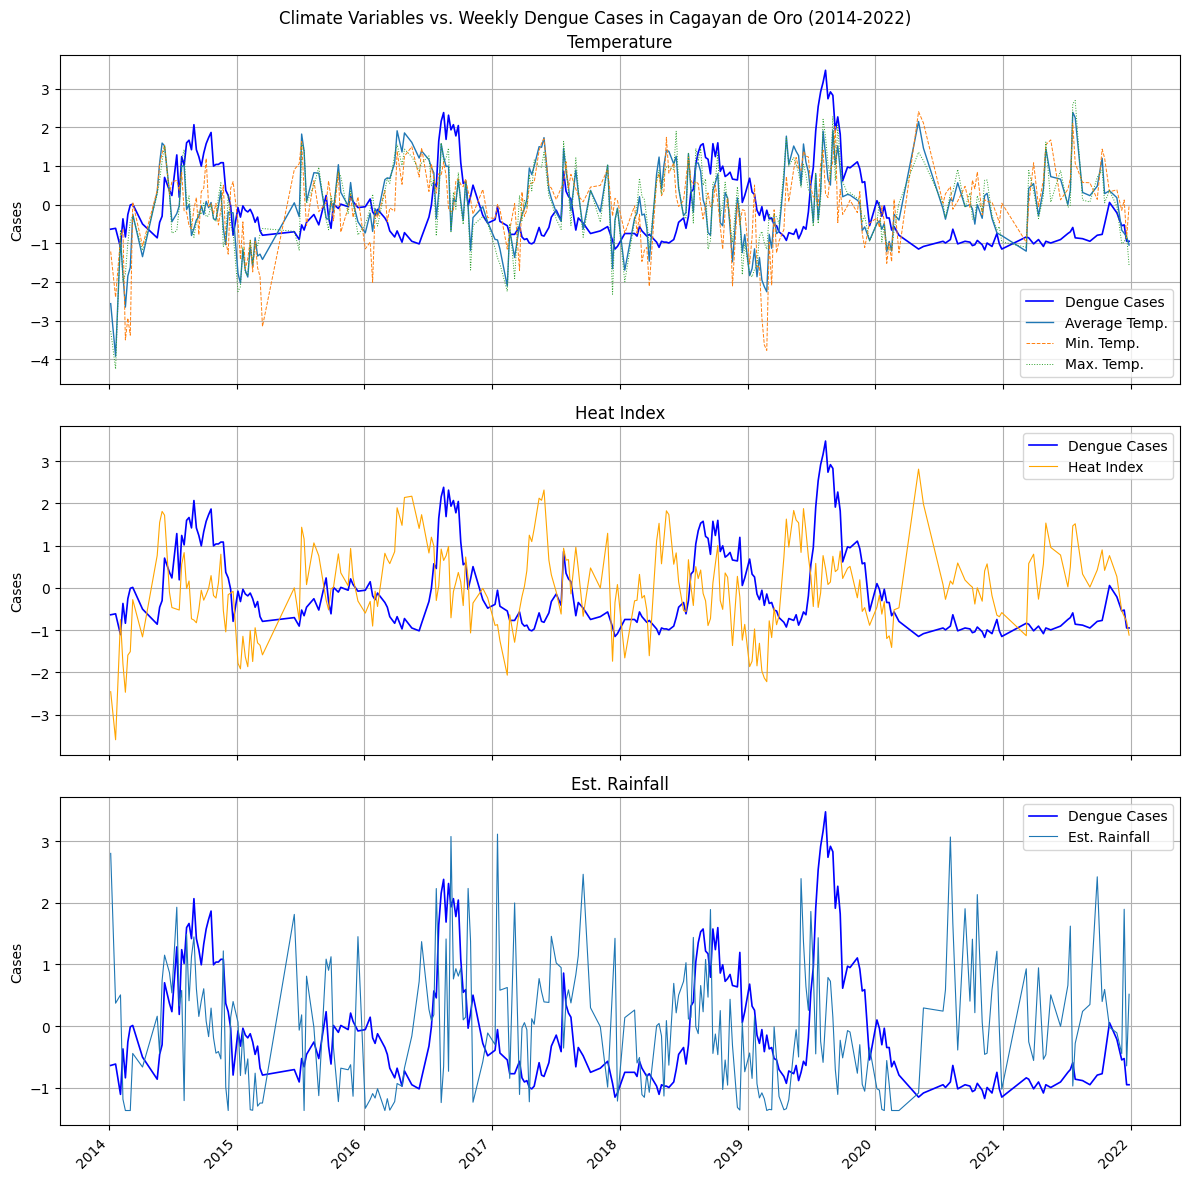
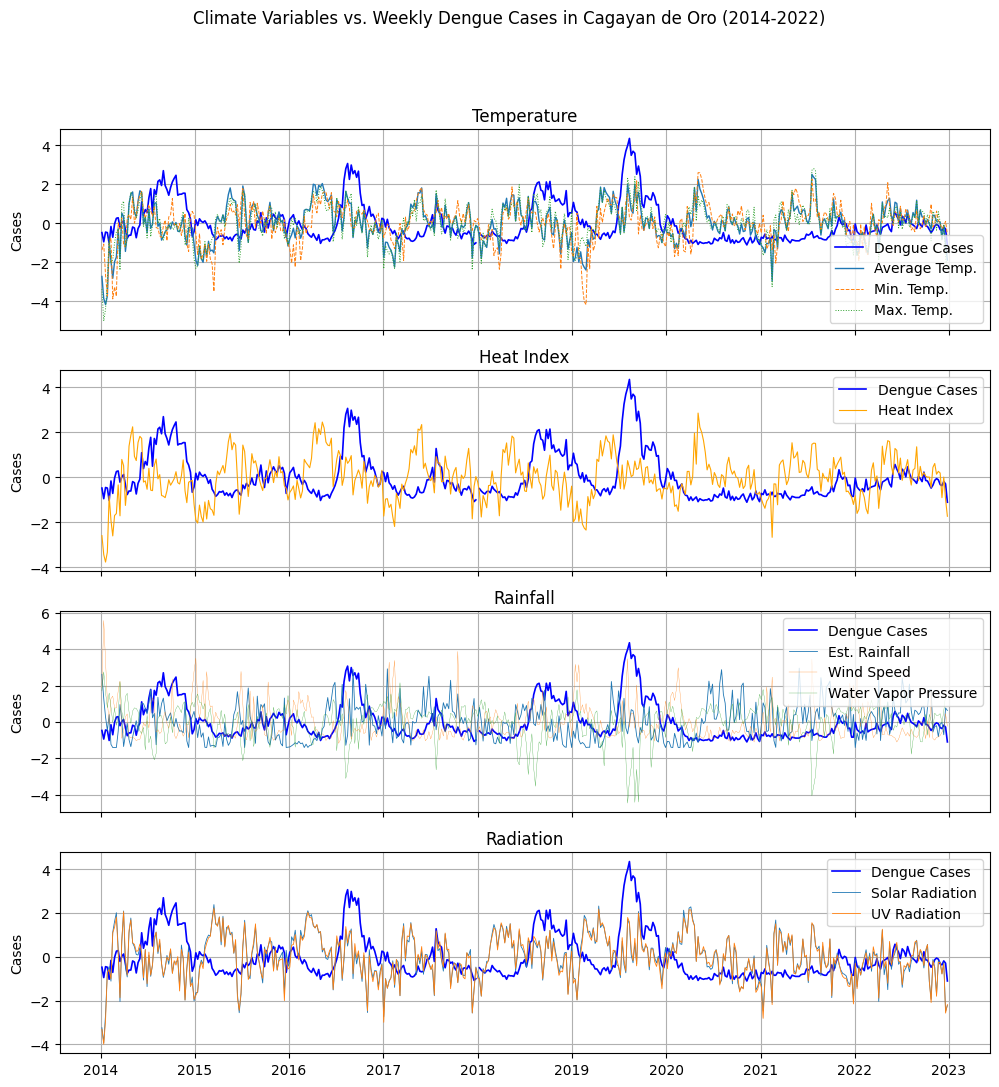
Added Climate hypothesis

Changed region(s): [[0.0, 0.0607, 1.0, 1.0], [0.1862, 0.0, 0.8068, 0.0607]]

diff --git a/index.html b/index.html
@@ -206,20 +206,25 @@
 								Climate atmospheric variables, specifically heat index and estimated rainfall, were analyzed to assess their influence on the climate-sensitive disease, dengue. The effects of these variables are depicted in the graphs, with all values normalized to facilitate clearer visualization and comparison alongside dengue case trends.
 							</p>
 							<p style="text-align:justify; text-indent:1.2em;margin-bottom:0.9rem;">
-								The recorded temperature and heat index data reveal clear seasonal fluctuations typical of the Philippines' climate. A noticeable pattern emerges from 2014 to 2020, where spikes in temperature are consistently followed by corresponding increases in dengue cases. This suggests a potential lagged relationship between rising temperatures and dengue incidence. However, after 2020, this pattern appears to diminish as dengue cases level off and no longer show the same responsiveness to temperature changes. This disruption likely coincides with the onset of the COVID-19 pandemic, which may have influenced reporting, human behavior, or other factors affecting dengue transmission, thereby interrupting the previously observed seasonal trend.
+								The recorded temperature and heat index data reveal clear seasonal fluctuations typical of the Philippines' climate. A noticeable pattern emerges from 2014 to 2020, where <b>spikes in temperature are consistently followed by corresponding increases in dengue cases</b>. This suggests <b>a potential lagged relationship between rising temperatures and dengue incidence</b>. However, after 2020, this pattern appears to diminish as dengue cases level off and no longer show the same responsiveness to temperature changes. This disruption likely coincides with the onset of the COVID-19 pandemic, which may have influenced reporting, human behavior, or other factors affecting dengue transmission, thereby interrupting the previously observed seasonal trend.
 							</p>
 							<p style="text-align:justify; text-indent:1.2em;margin-bottom:0.9rem;">
-								A similar seasonal fluctuation can be observed with estimated rainfall, aligning with the Philippines' characteristic wet and dry seasons. Notably, the intensity of rainfall events appears to increase over the years, with more pronounced spikes in recent periods. Like temperature, increases in rainfall often precede or coincide with rises in dengue cases. Additionally, the disruption in dengue case patterns during the COVID-19 pandemic is also evident in the rainfall graph.
+								A similar seasonal fluctuation can be observed with estimated rainfall, aligning with the Philippines' characteristic wet and dry seasons. Notably, the intensity of rainfall events appears to increase over the years, with more pronounced spikes in recent periods. Like temperature, <b>increases in rainfall often precede or coincide with rises in dengue cases</b>. Additionally, the disruption in dengue case patterns during the COVID-19 pandemic is also evident in the rainfall graph.
 							</p>
 
 							<img src="images/climate_fig2.png" alt="" style="max-width:100%; height:auto; display:block; margin:0 auto 1rem; border:1px solid #eee; padding:4px;" />
 							<p style="text-align:justify; text-indent:1.2em;margin-bottom:0.9rem;">
-								To gain a deeper insight into the impact of these variables, we examined the correlation between each climate variable and dengue cases. Using Pearson correlation to assess pairwise relationships on data from 2014 to 2022, none of the climate variables exhibited a strong linear correlation with dengue cases. Even if we account for lagging with the incidence, it only resulted in approximately moderate linear correlations between variables.
+								The study earlier identified that a <b>25-week lag</b> yielded the strongest associations with dengue incidence for Metro Manila (Carvajal et. al, 2018). However upon doing prelimenary analysis by trial and error, a <b>10-week lag</b> yielded the best association for Cagayan de Oro. 
 							</p>
 
-							<img src="images/climate_fig3.png" alt="" style="max-width:100%; height:auto; display:block; margin:0 auto 1rem; border:1px solid #eee; padding:4px;" />
+							<img src="images/climate_fig4.png" alt="" style="max-width:100%; height:auto; display:block; margin:0 auto 1rem; border:1px solid #eee; padding:4px;" />
 							<p style="text-align:justify; text-indent:1.2em;margin-bottom:0.9rem;">
-								Even if we do limit the data range from 2014 to 2020, pre-COVID19 pandemic, results were better but still resulted with showing approximately moderate linear correlation between variables.
+								In the case of leptospirosis incidence, no apparent trends are visible, compared to dengue incidence.
+							</p>
+
+							<img src="images/climate_fig7.png" alt="" style="max-width:100%; height:auto; display:block; margin:0 auto 1rem; border:1px solid #eee; padding:4px;" />
+							<p style="text-align:justify; text-indent:1.2em;margin-bottom:0.9rem;">
+								Similarly, no apparent trends are visible yet with typhoid incidence, compared to dengue incidence.	
 							</p>
                         </template>
 
@@ -237,7 +242,7 @@
                         </template>
 
                         <template id="tpl-socio">
-							<img src="images/socio_fig1.png" alt="" style="max-width:100%; height:auto; display:block; margin:0 auto 1rem; border:1px solid #eee; padding:4px;" />
+							<img src="images/hypo_socio_fig1.png" alt="" style="max-width:100%; height:auto; display:block; margin:0 auto 1rem; border:1px solid #eee; padding:4px;" />
                             <p style="text-align:justify; text-indent:1.2em;margin-bottom:0.9rem;">
 								In plot 1, We see a moderate negative correlation between Dengue Rate and Relative Wealth. This is a significant finding: in Cagayan de Oro, poorer barangays do tend to have higher rates of dengue. We also see a positive correlation with Population Density and a negative correlation with Health Facilities.
 							</p>
@@ -336,6 +341,120 @@
 
 					<!-- hidden templates for hypothesis details -->
 					<div id="hypo-templates" style="display:none;">
+						<template id="tpl-hypo-climate">
+							<h4 style="text-align:left;">Research Question and Hypotheses</h4>
+							<p style="text-align:justify; text-indent:1.2em; margin-bottom:0.9rem;">
+								For this analysis, we sought to answer “How do climate variables (e.g., temperature, rainfall, humidity) influence the incidence of climate-sensitive diseases such as dengue, leptospirosis, and typhoid in selected Philippine cities?”
+							</p>
+							<ul>
+								<p style="text-align:justify; text-indent:1.2em; margin-bottom:0.9rem;">
+									We tested the following hypotheses for different diseases in Cagayan de Oro:
+								</p>
+								<li>
+									<p style="text-align:justify; text-indent:1.2em; margin-bottom:0.9rem;">
+										H<sub>0</sub>: Climate variables have no significant effect on the incidence of climate-sensitive diseases
+									</p>
+								</li>
+								<li>
+									<p style="text-align:justify; text-indent:1.2em; margin-bottom:0.9rem;">
+										H<sub>1</sub>: Climate variables significantly influence the incidence of climate-sensitive diseases in Philippine cities
+									</p>
+								</li>
+							</ul>
+							
+							<h4 style="text-align:left;">Methodology</h4>
+							<p style="text-align:justify; text-indent:1.2em; margin-bottom:0.9rem;">
+								To test these hypotheses, we draw on the CChain Open Data database to construct a cross-sectional dataset covering 77 barangays in Cagayan de Oro City. Our analysis includes (1) running separate linear regressions for each variable and (2) estimating a multiple linear regression (OLS) model incorporating all climate variables.
+							</p>
+
+							<h4 style="text-align:left;">Visual Analysis Findings</h4>
+							<p style="text-align:justify; text-indent:1.2em; margin-bottom:0.9rem;">
+								With the preliminary EDA earlier, we have observed trends on dengue incidence vs. climate variables. However, no apparent trends are visible for the other diseases. As such, we will be implementing a <b>10-week lag</b> to dengue incidence and see if there is any effect to other diseases as well.
+							</p>
+
+							<h4 style="text-align:left;">Statistical Hypothesis Test Results</h4>
+							<img src="images/climate_fig2.png" style="max-width:100%; height:auto; display:block; margin:0 auto 1rem; border:1px solid #eee; padding:4px;" />
+							<p style="text-align:justify; text-indent:1.2em; margin-bottom:0.9rem;">
+								In line with previous research, introducing time lagging to our model did improve the most of the correlation values between climate variables and dengue incidence. However, <b>temperature-related variables and rainfall estimates showed weak positive correlation</b> while <b>water vapor pressure showed weak negative correlation</b>. This suggests that <b>these climate variables alone are not the cause of dengue incidence</b>. Furthermore, water vapor pressure showed weaker correlation when introduced with time lagging. This suggests that <b>no time lagging is required for water vapor pressure</b>.
+							</p>
+
+							<img src="images/climate_fig3.png" style="max-width:100%; height:auto; display:block; margin:0 auto 1rem; border:1px solid #eee; padding:4px;" />
+							<p style="text-align:justify; text-indent:1.2em; margin-bottom:0.9rem;">
+								Even if we take into account the pandemic, it did improve the said variables, but still only showed <b>weak correlation with dengue incidence</b>.
+							</p>
+
+							<p style="text-align:justify; text-indent:1.2em; margin-bottom:0.9rem;">
+								Since temperature, heat index, rainfall estimates, and water vapor pressure showed statistically significant correlation, we will be using these variables for OLS. However, since time lagging is ineffective for water vapor pressure, we will not be using OLS on water vapor pressure alongside the other variables. For comparison, we will be showcasing results between four types of models: 2014-2022 model, 2014-2020 model, lagged 2014-2022 model, and lagged 2014-2020 model:
+							</p>
+
+							<table>
+								<tr>
+									<th></th>
+									<th>2014-2022</th>
+									<th>2014-2020</th>
+									<th>L 2014-2022</th>
+									<th>L 2014-2020</th>
+								</tr>
+								<tr>
+									<td>R-squared</td>
+									<td>0.179</td>
+									<td>0.247</td>
+									<td>0.164</td>
+									<td>0.240</td>
+								</tr>
+								<tr>
+									<td>Adj. R-squared</td>
+									<td>0.174</td>
+									<td>0.241</td>
+									<td>0.159</td>
+									<td>0.233</td>
+								</tr>
+								<tr>
+									<td>F-statistic</td>
+									<td>33.74</td>
+									<td>39.44</td>
+									<td>29.78</td>
+									<td>36.83</td>
+								</tr>
+								<tr>
+									<td>P-value</td>
+									<td>9.68e-20</td>
+									<td>4.65e-22</td>
+									<td>1.36e-17</td>
+									<td>1.05e-20</td>
+								</tr>
+							</table>
+
+							<p style="text-align:justify; text-indent:1.2em; margin-bottom:0.9rem;">
+								As listed above, all models are <b>highly significant</b>. Which means that at least one or more of the variables are significant, with <b>average temperatures affecting dengue incidence greatly</b>. However, the amount of variation varies between models. With a p-value of 0.05, <b>all variables are significant in all models except for rainfall with 2014-2022 model</b>. Furthermore, this model only accounts for <b>about 20% of the variation of dengue incidence</b>.
+							</p>
+
+							<img src="images/climate_fig5.png" style="max-width:100%; height:auto; display:block; margin:0 auto 1rem; border:1px solid #eee; padding:4px;" />
+							<p style="text-align:justify; text-indent:1.2em; margin-bottom:0.9rem;">
+								For leptospirosis, <b>climate variables did not present a significant level of correlation with leptospirosis incidence</b>.
+							</p>
+
+							<img src="images/climate_fig6.png" style="max-width:100%; height:auto; display:block; margin:0 auto 1rem; border:1px solid #eee; padding:4px;" />
+							<p style="text-align:justify; text-indent:1.2em; margin-bottom:0.9rem;">
+								The same happens even if we limit the data before the pandemic. Since no correlation was found, there is no need to run OLS.
+							</p>
+
+							<img src="images/climate_fig8.png" style="max-width:100%; height:auto; display:block; margin:0 auto 1rem; border:1px solid #eee; padding:4px;" />
+							<p style="text-align:justify; text-indent:1.2em; margin-bottom:0.9rem;">
+								Similarly, <b>climate variables did not present a significant level of correlation with typhoid incidence</b>.
+							</p>
+
+							<img src="images/climate_fig9.png" style="max-width:100%; height:auto; display:block; margin:0 auto 1rem; border:1px solid #eee; padding:4px;" />
+							<p style="text-align:justify; text-indent:1.2em; margin-bottom:0.9rem;">
+								The same happens even if we limit the data before the pandemic. Since no correlation was found, there is no need to run OLS.
+							</p>
+
+							<h4 style="text-align:left;">Conclusion & Discussion</h4>
+							<p style="text-align:justify; text-indent:1.2em; margin-bottom:0.9rem;">
+								In conclusion and based on statistical evidence, we <b>reject the null hypothesis for dengue incidence</b> but <b>accept the null hypothesis for leptospirosis and typhoid incidence</b>. This means that only dengue incidence is affected by climate variables. However, this only accounts for <b>20% of the variance</b>. This suggests that there is more at play here, other than climate variables.
+							</p>
+						</template>
+						
 						<template id="tpl-hypo-envi">
 							<h4 style="text-align:left;">Research Question and Hypotheses</h4>
 							<p style="text-align:justify; text-indent:1.2em; margin-bottom:0.9rem;">
@@ -531,110 +650,6 @@
 							</p>
 							<p style="text-align:justify; text-indent:1.2em; margin-bottom:0.9rem;">
 								Thus, this exploratory analysis for this specific research question suggests that landslide-prone terrain may be a useful environmental indicator for identifying populations at higher risk for dengue. Future research by the group or other groups may incorporate multi-year disease incidence average, disease incidence of different barangays of different cities for a barangay-level analysis, or include more cities in the correlation analysis that was done for this research question.
-							</p>
-						</template>
-
-						<template id="tpl-hypo-socio">
-							<h4 style="text-align:left;">Research Question and Hypotheses</h4>
-							<p style="text-align:justify; text-indent:1.2em; margin-bottom:0.9rem;">
-								This analysis sought to answer the following research question: "How do socioeconomic factors (e.g., population density, relative wealth, and access to healthcare facilities) affect vulnerability to climate-sensitive diseases?"
-							</p>
-							<ul>
-								<p style="text-align:justify; text-indent:1.2em; margin-bottom:0.9rem;">
-									We tested the following hypotheses for Dengue Fever in Cagayan de Oro:
-								</p>
-								<li>
-									<p style="text-align:justify; text-indent:1.2em; margin-bottom:0.9rem;">
-										H<sub>0</sub>: Socioeconomic indicators (wealth, population density, health access) do not affect disease vulnerability.
-									</p>
-								</li>
-								<li>
-									<p style="text-align:justify; text-indent:1.2em; margin-bottom:0.9rem;">
-										H<sub>1</sub>: Socioeconomic factors significantly affect disease incidence, with poorer and more densely populated areas experiencing a higher burden.
-									</p>
-								</li>
-							</ul>
-							
-							<h4 style="text-align:left;">Methodology</h4>
-							<ul>
-								<p style="text-align:justify; text-indent:1.2em; margin-bottom:0.9rem;">
-									To test these hypotheses, we created a cross-sectional dataset of 77 barangays in Cagayan de Oro City. We aggregated data from 2014 to 2022 to create an average profile for each barangay, including:
-								</p>
-								<li>
-									<p style="text-align:justify; text-indent:1.2em; margin-bottom:0.9rem;">
-										<b>Dependent Variable:</b> Average Annual Dengue Rate per 100,000 people
-									</p>
-								</li>
-								<li>
-									<p style="text-align:justify; text-indent:1.2em; margin-bottom:0.9rem;">
-										<b>Independent variables:</b> Mean Relative Wealth Index (RWI), mean Population Density, and mean count of DOH-registered Health Facilities.
-									</p>
-								</li>
-							</ul>
-							<p style="text-align:justify; text-indent:1.2em; margin-bottom:0.9rem;">
-								The analysis involved two stages: (1) A visual analysis using scatter plots and box plots to identify trends, and (2) a formal hypothesis test using a multiple linear regression (OLS) model.
-							</p>
-
-							<h4 style="text-align:left;">Visual Analysis Findings</h4>
-							<img src="images/hypo_socio_fig1.png" style="max-width:100%; height:auto; display:block; margin:0 auto 1rem; border:1px solid #eee; padding:4px;" />
-							<ul>
-								<p style="text-align:justify; text-indent:1.2em; margin-bottom:0.9rem;">
-									The visual dashboard provided initial evidence to support the alternative hypothesis (H<sub>1</sub>).
-								</p>
-								<li>
-									<p style="text-align:justify; text-indent:1.2em; margin-bottom:0.9rem;">
-										<b>Plot 1 (Heatmap):</b> A correlation heatmap revealed a <b>moderate negative correlation</b> between Relative Wealth and Dengue Rate, suggesting poorer barangays had higher rates. It also showed a <b>weak positive correlation</b> with Population Density.
-									</p>
-								</li>
-								<li>
-									<p style="text-align:justify; text-indent:1.2em; margin-bottom:0.9rem;">
-										<b>Plot 2 & 3 (Scatter Plots):</b> These plots confirmed the trends. The scatter plot for wealth (Plot 2) showed a clear downward-sloping trend line, indicating lower rates in wealthier barangays. The plot for density (Plot 3) showed an upward-sloping trend, indicating higher rates in more crowded areas. Each dot on these plots represented a single barangay.
-									</p>
-								</li>
-								<li>
-									<p style="text-align:justify; text-indent:1.2em; margin-bottom:0.9rem;">
-										<b>Plot 4 (Box Plot):</b> The analysis of healthcare access revealed a non-linear pattern. Barangays with <b>zero</b> health facilities had a visibly higher median dengue rate than those with one or more, suggesting that a complete lack of access is a significant vulnerability.
-									</p>
-								</li>
-							</ul>
-
-							<h4 style="text-align:left;">Statistical Hypothesis Test Results</h4>
-							<ul>
-								<p style="text-align:justify; text-indent:1.2em; margin-bottom:0.9rem;">
-									A multiple linear regression was performed to determine if these visual trends were statistically significant. The overall model was significant (F-statistic = 6.546, p = 0.000555) and explained 21.2% of the variance in dengue rates (R-squared = 0.212).
-								</p>
-								<p style="text-align:justify; text-indent:1.2em; margin-bottom:0.9rem;">
-									The individual factor results are as follows:
-								</p>
-								<li>
-									<p style="text-align:justify; text-indent:1.2em; margin-bottom:0.9rem;">
-										<b>Relative Wealth (RWI):</b> This was a <b>highly significant</b> predictor (p = 0.0003). The negative coefficient confirms that as a barangay's average wealth increases, its dengue rate significantly <i>decreases</i>. This finding <b>strongly supports H<sub>1</sub></b>.
-									</p>
-								</li>
-								<li>
-									<p style="text-align:justify; text-indent:1.2em; margin-bottom:0.9rem;">
-										<b>Population Density:</b> This was also a <b>highly significant</b> predictor (p = 0.0001). The positive coefficient confirms that as a barangay's population density increases, its dengue rate significantly <i>increases</i>. This finding <b>also strongly supports H<sub>1</sub></b>.
-									</p>
-								</li>
-								<li>
-									<p style="text-align:justify; text-indent:1.2em; margin-bottom:0.9rem;">
-										<b>Healthcare Access:</b> This factor's p-value (p = 0.063) was just above the 0.05 threshold for significance. This indicates that once the powerful effects of wealth and density are accounted for, the <i>number</i> of health facilities was not a statistically significant predictor in this specific model.
-									</p>
-								</li>
-							</ul>
-
-							<h4 style="text-align:left;">Conclusion & Discussion</h4>
-							<p style="text-align:justify; text-indent:1.2em; margin-bottom:0.9rem;">
-								<b>Based on the statistical evidence, we reject the null hypothesis (H0).</b>
-							</p>
-							<p style="text-align:justify; text-indent:1.2em; margin-bottom:0.9rem;">
-								The analysis provides strong quantitative support for the alternative hypothesis (H1). The burden of dengue in Cagayan de Oro is not random but is significantly linked to socioeconomic conditions.
-							</p>
-							<p style="text-align:justify; text-indent:1.2em; margin-bottom:0.9rem;">
-								We found that <b>relative wealth</b> and <b>population density</b> are two of the most significant drivers of dengue vulnerability. Barangays that are poorer and more crowded face a statistically higher risk. 
-							</p>
-							<p style="text-align:justify; text-indent:1.2em; margin-bottom:0.9rem;">
-								While the visual plot for healthcare access was compelling, its lack of statistical significance in the final model suggests that the effects of poverty and density are more dominant. Future research could explore access in different ways, such as travel time to the nearest facility rather than just the count within the barangay.
 							</p>
 						</template>
 
